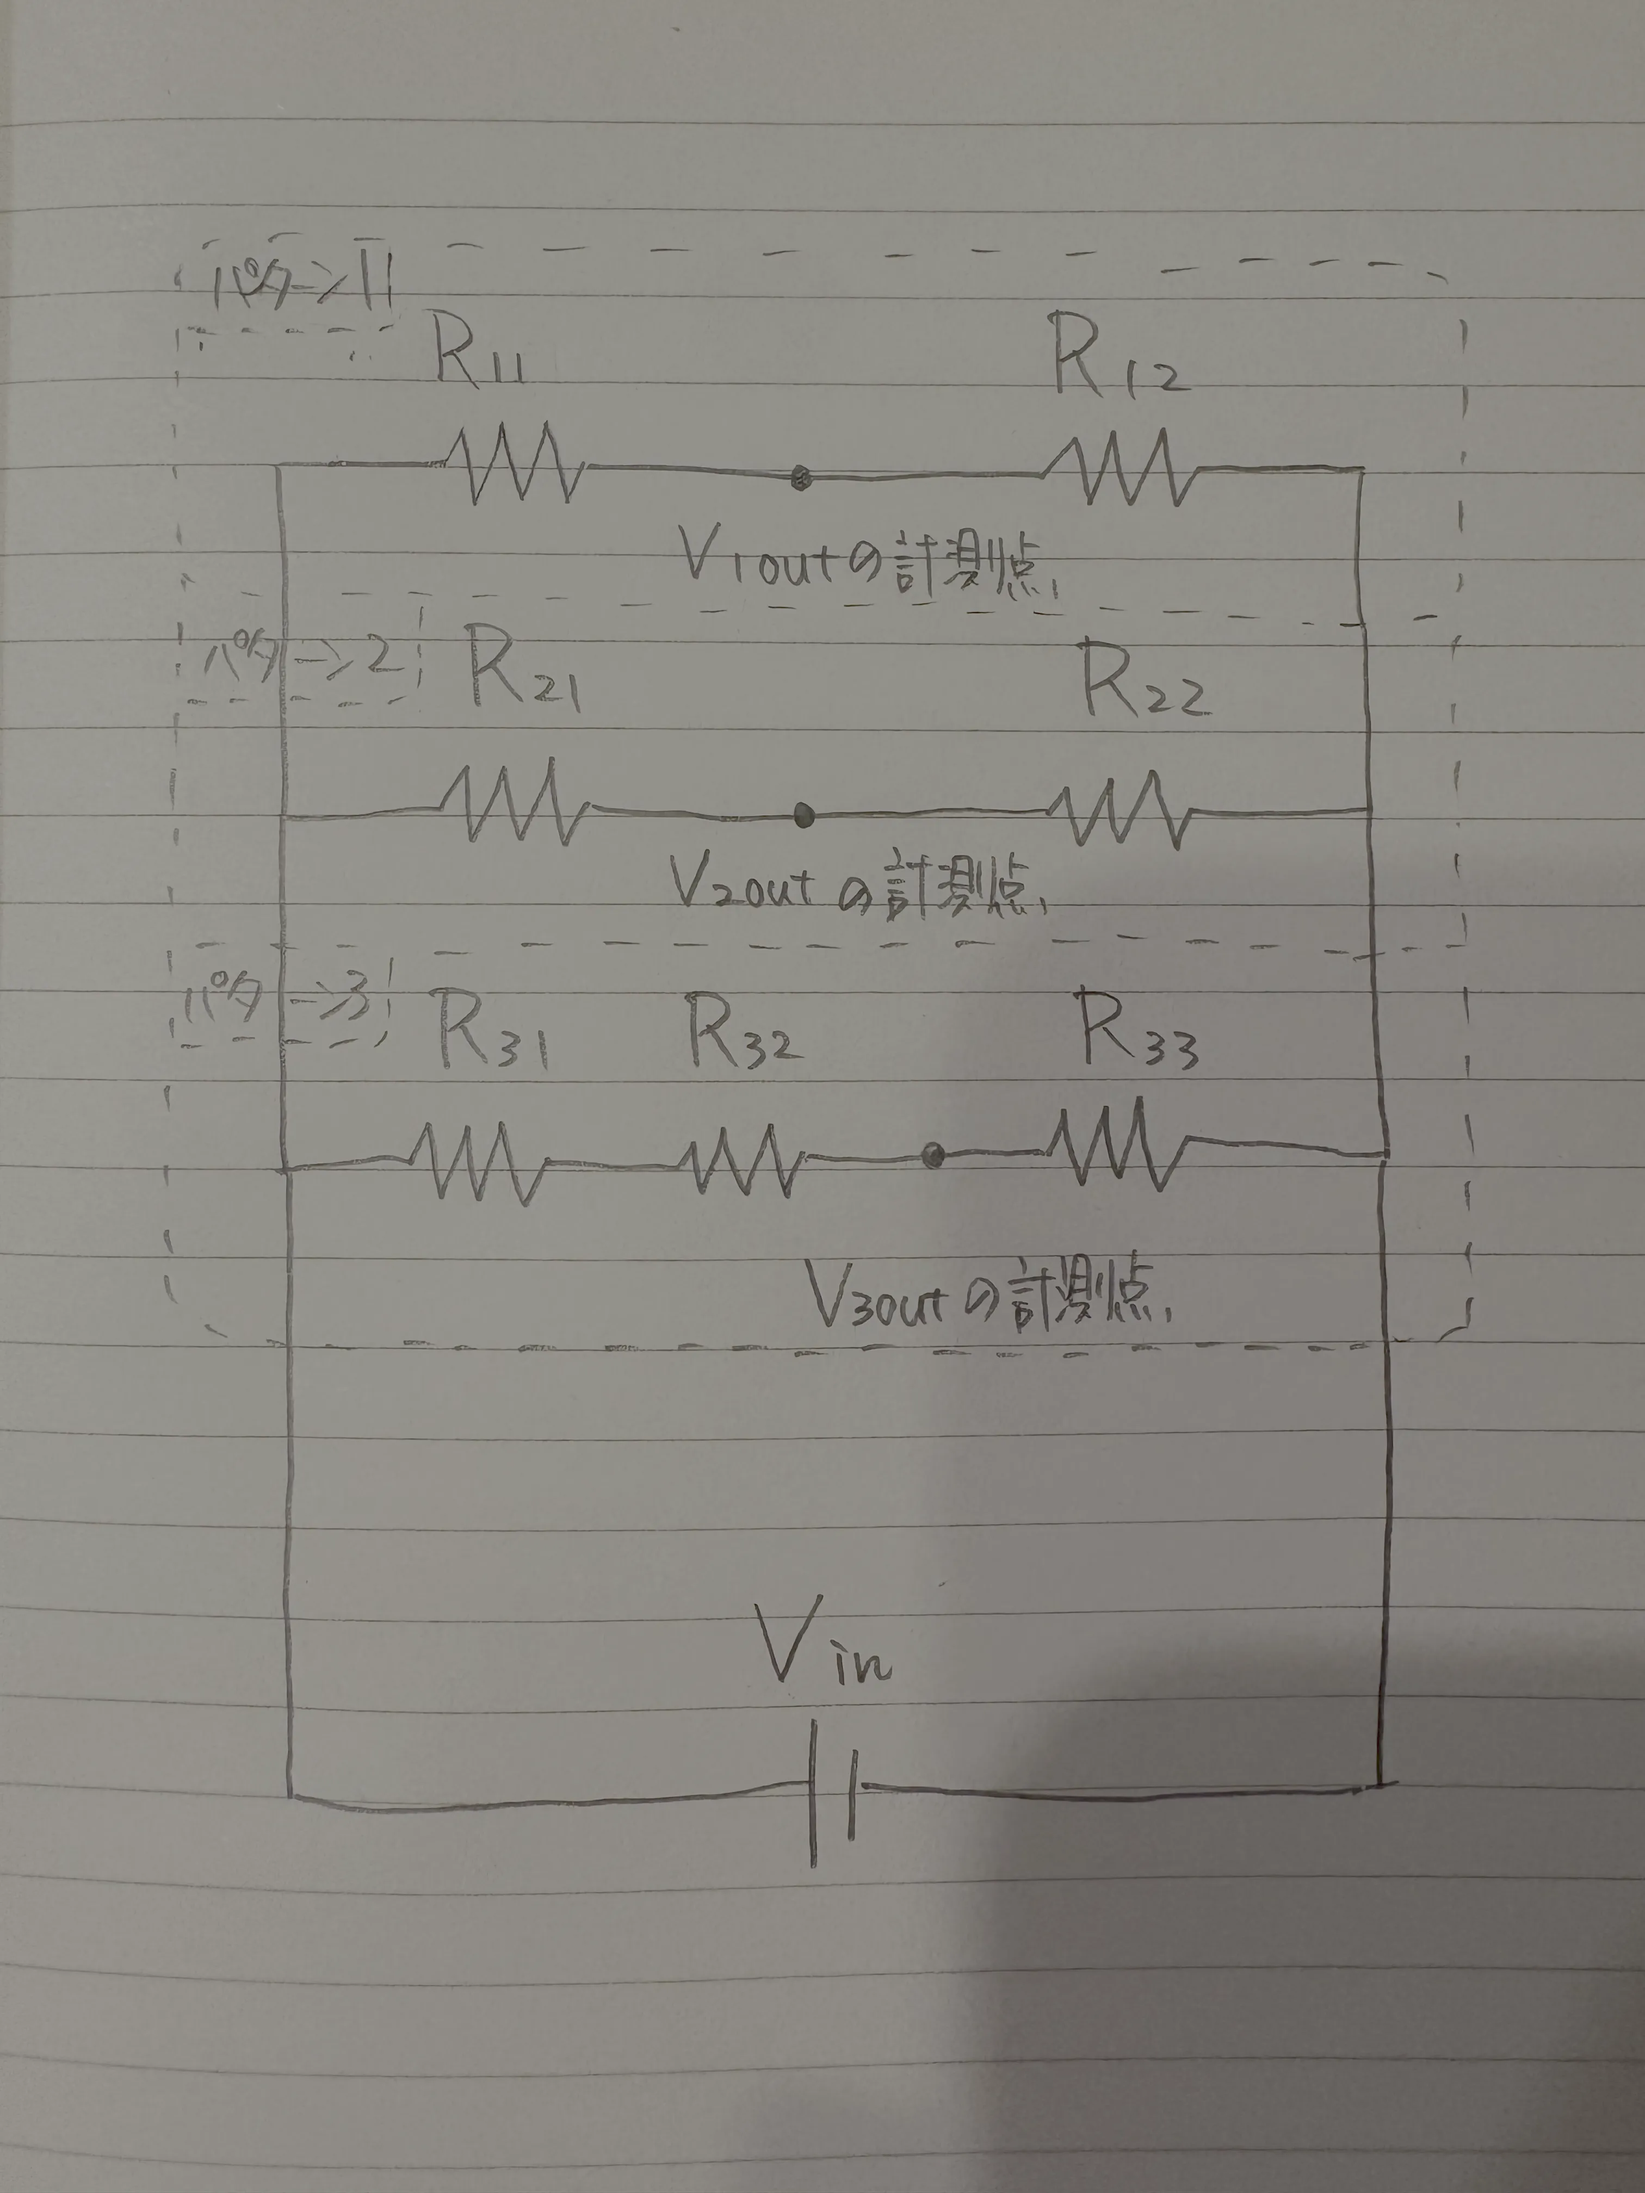
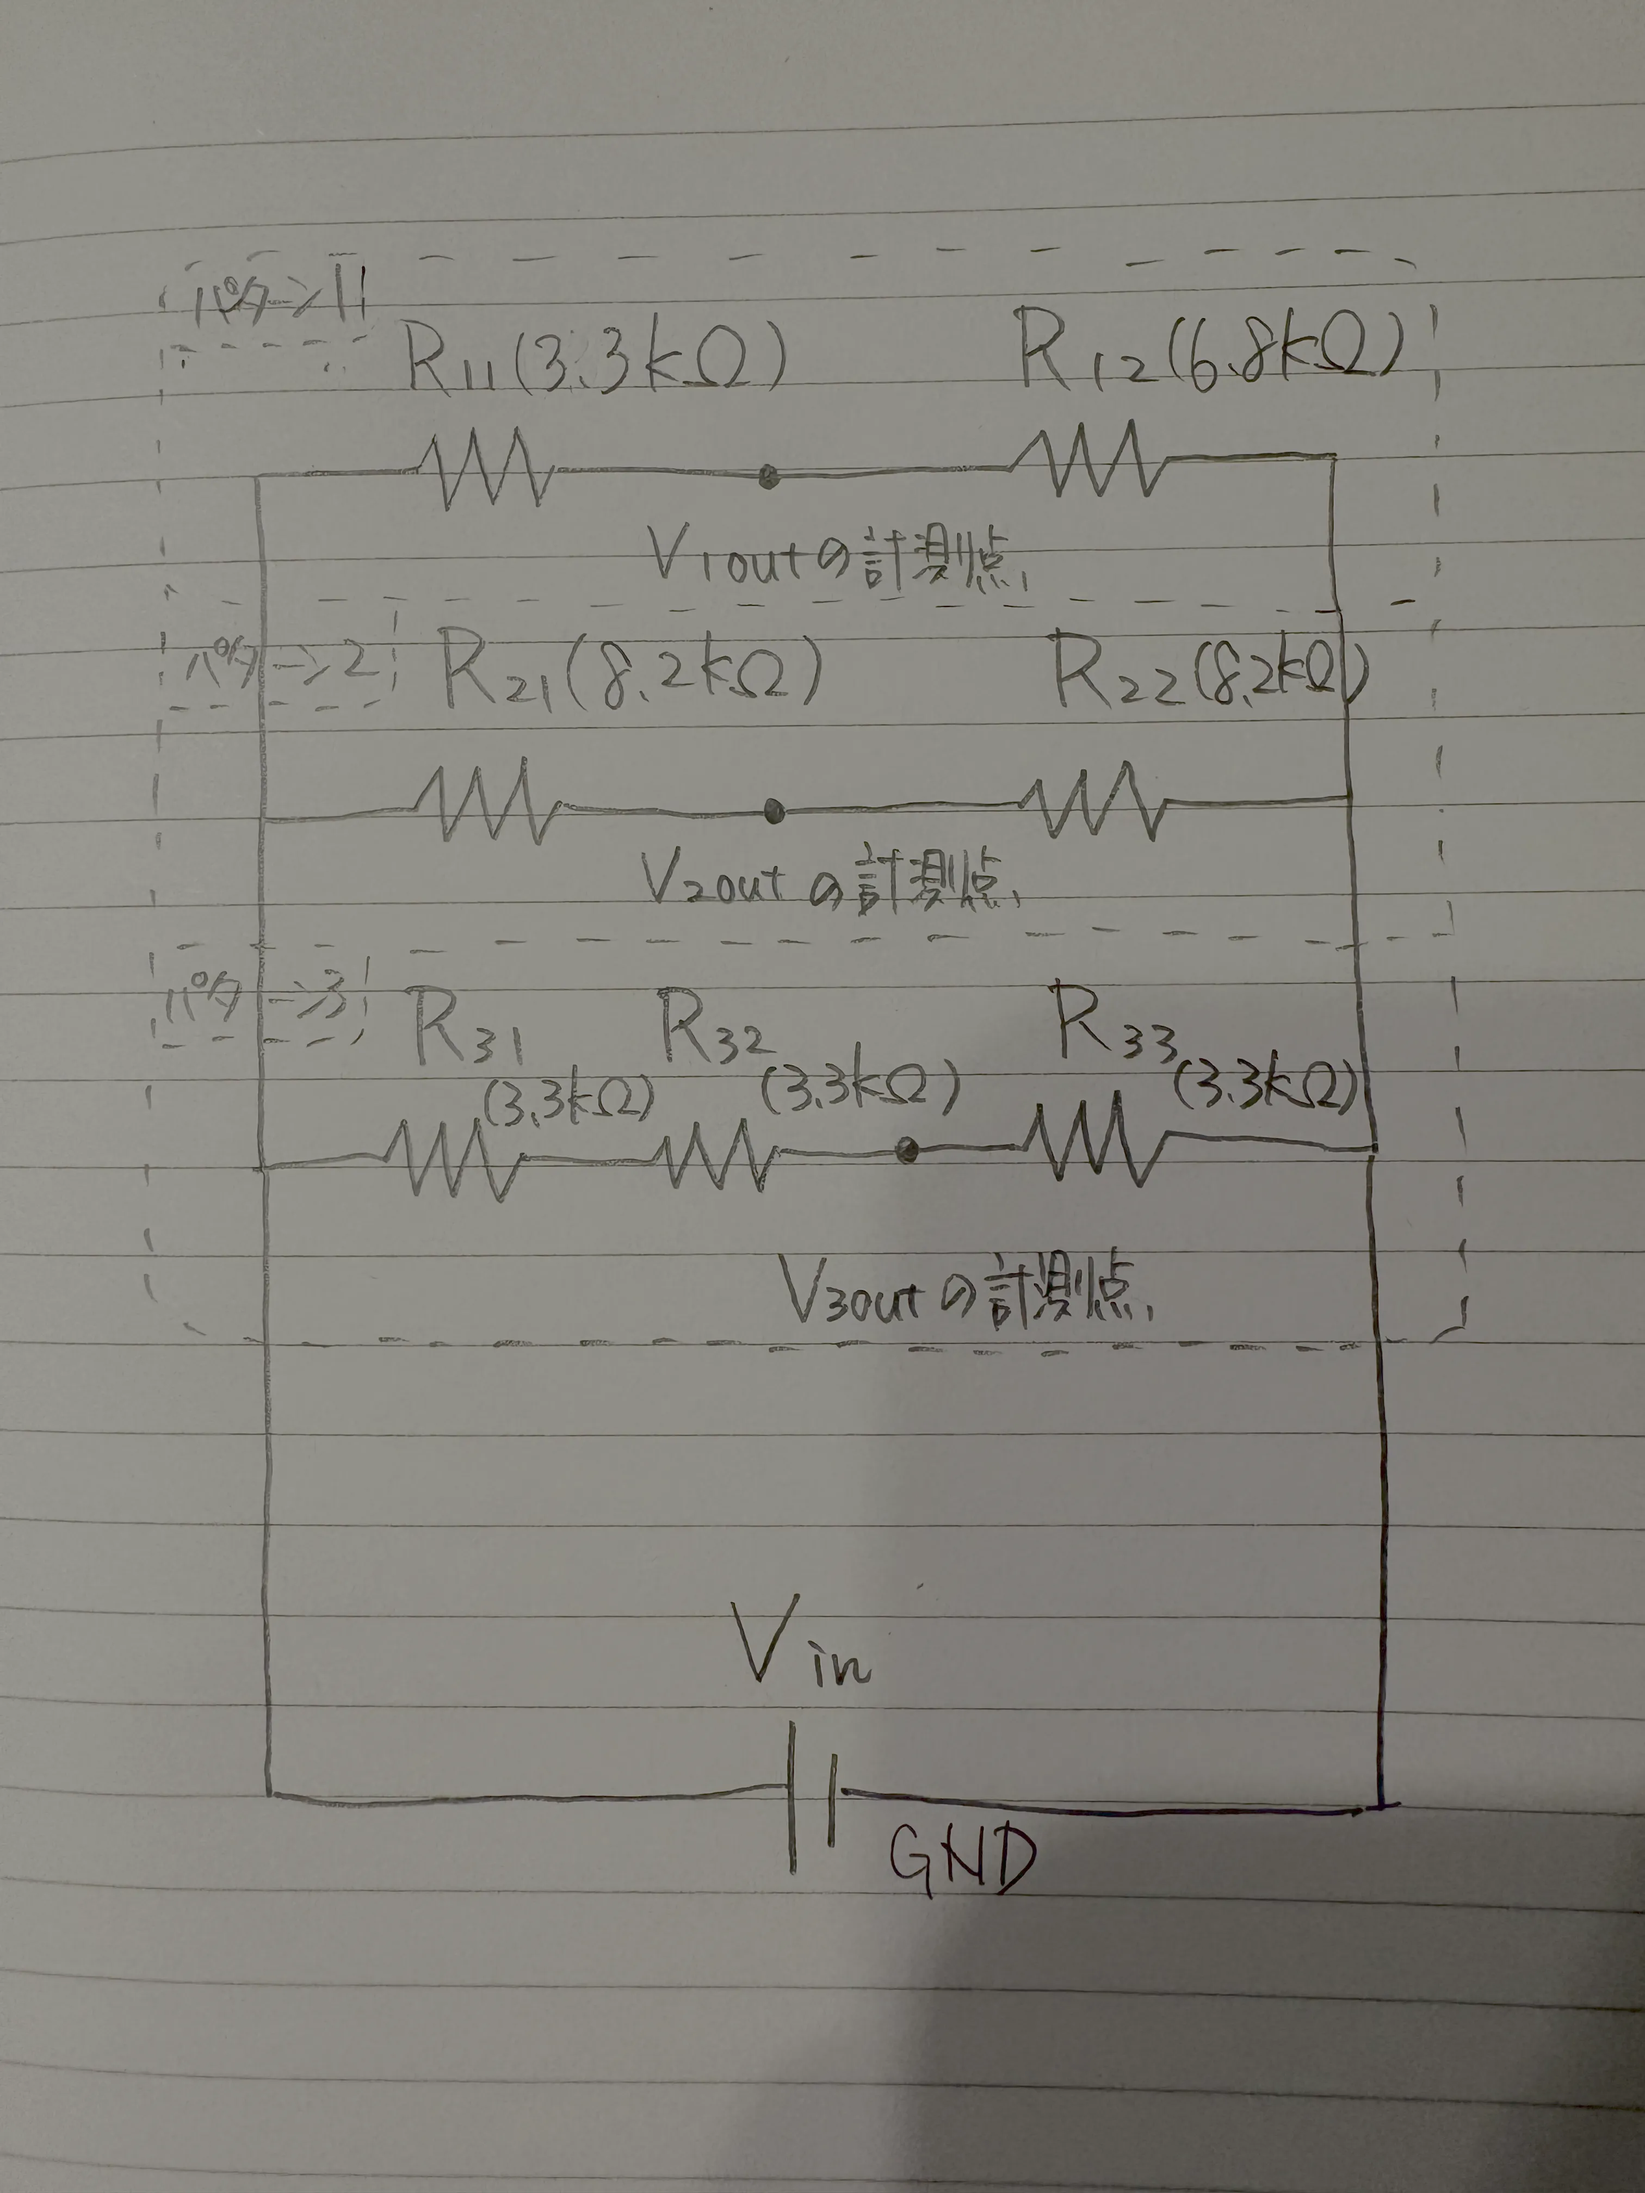
Fix resistor values in voltage divider patterns and add notes on troubleshooting

diff --git a/voltage-divider/README.md b/voltage-divider/README.md
@@ -11,7 +11,7 @@
 この実験では次の三つの分圧回路を用意します。
 
 - パターン 1: 抵抗 R_11 (3.3kΩ) と抵抗 R_12 (6.8kΩ) を直列につなぎ、R_11 へ直流電圧 V_in (5V) をかけて R_12 を GND へつなぐ。分圧 V_1outは R_11 と R_12 の間で取り出す。
-- パターン 2: 抵抗 R_21 (6.8kΩ) と抵抗 R_22 (6.8kΩ) を直列につなぎ、R_21 へ直流電圧 V_in (5V) をかけて R_22 を GND へつなぐ。分圧 V_2out は R_21 と R_22 の間で取り出す。
+- パターン 2: 抵抗 R_21 (8.2kΩ) と抵抗 R_22 (8.2kΩ) を直列につなぎ、R_21 へ直流電圧 V_in (5V) をかけて R_22 を GND へつなぐ。分圧 V_2out は R_21 と R_22 の間で取り出す。
 - パターン 3: 抵抗 R_31 (3.3kΩ) と抵抗 R_32 (3.3kΩ) と抵抗 R_33 (3.3kΩ) を直列につなぎ、R_31 へ直流電圧 V_in (5V) をかけて R_33 を GND へつなぐ。分圧 V_3out は R_32 と R_33 の間で取り出す。
 
 **NOTE**: R_11 などの記号の `_` より後ろは添字を表すこととします。
@@ -56,3 +56,7 @@
 
 - 分圧の計算値と Falstad によるシミュレーション結果は三つの全てのパターンにおいて一致していた。
 - 分圧の実測値と計算値の差は、三つの全てのパターンにおいて、テスターの精度の幅に収まっていた。
+
+## つまずいた点・後で気づいた点
+
+- パワーモジュールをジャンパ線 2 本で電源レールにつないでいましたが、ブレッドボードに直接挿せることを知りました。
